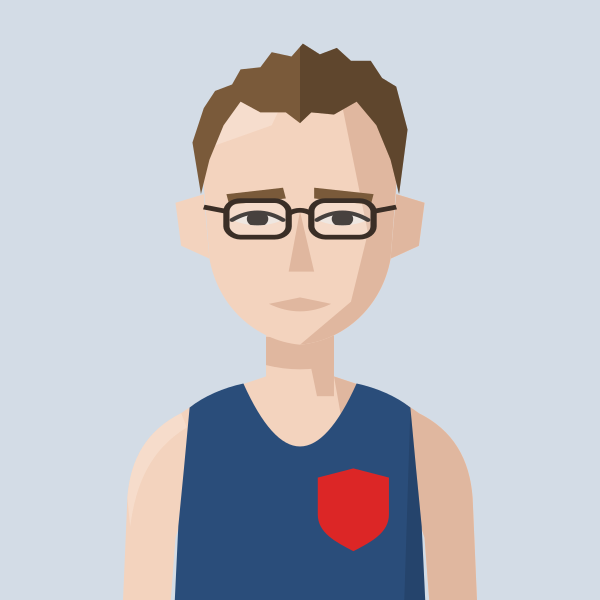
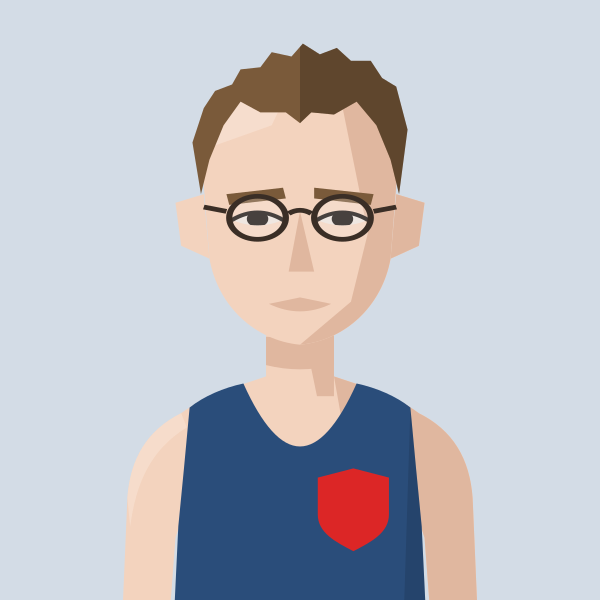
Max Nicholls portrait; round glasses option for Nick Acfield
Claude-Session: https://claude.ai/code/session_01MgmDWhFqnSSnP4iBLKXUZC

Changed region(s): [[0.36, 0.3, 0.63, 0.42]]

diff --git a/files/index.html b/files/index.html
@@ -578,12 +578,12 @@ const LoadingVests=()=>{
 const PORTRAIT_CLUBS=new Set(['BEL','KEN','THH','HHH','H/W','SLH','G&G','RAN','C/C','DUL','HOL','WAL','CRO','WOK','E&E','FUL','SOC','BOX','BOH','AFD','SUR','MIT','REI','DMV','STR','W4H','W/W','K&P','S&D','SEL','DWN','FOT','LCR','ADV','262','MPA','BAC','OME','VAC','HER']);
 // Superstar portraits: every spelling of the athlete's name used in the data -> file in portraits/athletes/
 const PORTRAITS=(()=>{const m={};const add=(file,club,...names)=>names.forEach(n=>{const k=n.toLowerCase();if(m[k]&&m[k].club!==club)m[k+'@'+club]={file,club};else m[k]={file,club};});
-add('kitty-shepherd-cross','BEL','Kitty Shepherd-Cross','Kitty Shepherd Cross');add('jack-kavanagh','HOL','Jack Kavanagh');add('sam-bramwell','HHH','Sam Bramwell');add('suzie-harvey','G&G','Suzie Harvey');add('freddie-hessian','H/W','Freddie Hessian');add('jamie-crowe','H/W','Jamie Crowe');add('sam-gebreselassie','BEL','Samuel Gebreselassie','Sam Gebreselassie');add('jack-brotchie','HHH','Jack Brotchie');add('jack-millar','THH','Jack Millar');add('lucy-jones','HHH','Lucy Jones');add('alex-milne','H/W','Alex Milne');add('josh-trigwell','BEL','Josh Trigwell');add('mack-downie','BEL','Mack Downey','Mack Downie');add('george-ogden','SLH','George Ogden');add('stuart-mccallum','H/W','Stuart McCallum');add('andrew-penney','H/W','Andrew Penney');add('jeremy-dempsey','THH','Jeremy Dempsey');add('henry-hart','BEL','Henry Hart');add('john-sanderson','G&G','John Sanderson');add('andy-fyfe','BEL','Andrew Fyfe','Andy Fyfe');add('saron-haileselase','BEL','Saron Haileselase');add('paskar-owor','BEL','Paskar Owor');add('ruby-carter','H/W','Ruby Carter');add('tom-foster','G&G','Tom Foster');add('mark-tennyson','G&G','Mark Tennyson');add('richard-ollington','THH','Richard Ollington');add('james-preston','BEL','James Preston');add('daniel-wolff','BEL','Daniel Wolff');add('jonny-scott','BEL','Jonathan Scott','Jonny Scott');add('josh-mitchell','BEL','Josh Mitchell');add('dylan-evans','BEL','Dylan Evans');add('morgan-roberts','HHH','Morgan Roberts');add('fred-slemeck','H/W','Fred Slemeck','Frederick Slemeck');add('matthew-edgar','BEL','Matthew Edgar');add('sam-sommerville','BEL','Sam Sommerville');add('richard-mcdowell','H/W','Richard McDowell');add('margaret-coogan','HHH','Margaret Coogan');add('owen-hind','KEN','Owen Hind','Owen Hinds');add('indy-barnes','THH','Indy Barnes');add('conall-mcnally','BEL','Conall McNally');add('rowan-board','HHH','Rowan Board');add('andy-weir','THH','Andy Weir','Andrew Weir');add('neil-chisholm','THH','Neil Chisholm','Neal Chisholm');add('pancho-panchev','H/W','Pancho Panchev');add('adrien-royer','G&G','Adrien Royer');add('rob-kelly','BEL','Robert Kelly','Rob Kelly');add('alex-janiaud','BEL','Alex Janiaud');add('tom-renshaw','THH','Thomas Renshaw','Tom Renshaw');add('jack-ramm','DUL','Jack Ramm');add('findlay-dyer','BEL','Findlay Dyer');add('james-blackwood','DUL','James Blackwood');add('sonny-nicoll','H/W','Sonny Nicoll');add('anisse-ismaili','THH','Anisse Ismaili');add('caleb-hathaway','HHH','Caleb Hathaway');add('barnaby-day','KEN','Barnaby Day');add('simon-coppard','BEL','Simon Coppard');add('ronan-tanguy','HHH','Ronan Tanguy');add('chris-threadgold','BEL','Chris Threadgold');add('mathew-speed','KEN','Mathew Speed','Matthew Speed');add('john-lethbridge','THH','John Lethbridge');add('oliver-fox','THH','Oliver Fox');add('jack-woods','HOL','Jack Woods');add('larry-ryan','BEL','Larry Ryan');add('ethan-mccolgan','THH','Ethan McColgan');add('jonathan-collier','KEN','Jonathan Collier');add('andrew-green','HOL','Andrew Green','Andy Green');add('fintan-pearce','BEL','Fintan Pearce');add('daniel-shaw','HHH','Daniel Shaw');add('sam-tyas','BEL','Sam Tyas');add('tom-austin','HHH','Tom Austin');add('ian-ellwood','KEN','Ian Ellwood');add('rian-mccawley','BEL','Rian McCawley');add('kieran-barnes','HOL','Kieran Barnes');add('ed-mallett','H/W','Ed Mallett','Edward Mallett');add('john-hutchins','WOK','John Hutchins');add('george-gathercole','THH','George Gathercole');add('nick-lightfoot','G&G','Nick Lightfoot');add('eoin-brady','H/W','Eoin Brady');add('james-stockings','H/W','James Stockings');add('jack-hobden','H/W','Jack Hobden');add('hugo-hewitt','HOL','Hugo Hewitt');add('zach-nolan','BEL','Zach Nolan');add('isaac-lutaya','H/W','Isaac Lutaya');add('oliver-young','BEL','Oliver Young');add('ben-racle','KEN','Ben Racle');add('josh-snow','BEL','Josh Snow');add('oliver-reynolds','BEL','Oliver Reynolds');add('aaron-wilson','DUL','Aaron Wilson');add('liam-burthem','HHH','Liam Burthem');add('dan-pettitt','KEN','Dan Pettitt');add('bob-holt','H/W','Bob Holt');add('dave-holt','H/W','Dave Holt');add('mike-fuller','H/W','Mike Fuller');add('gerry-north','BEL','Gerry North');add('steve-gardner','BEL','Steve Gardner');add('alex-yee','KEN','Alex Yee');add('phil-wicks','BEL','Phil Wicks');add('john-gilbert','KEN','John Gilbert','Jonathan Gilbert');add('chris-busaileh','KEN','Chris Busaileh');add('jim-allchin','KEN','Jim Allchin');add('finn-johnson','H/W','Finn Johnson');add('will-cockerell','BEL','William Cockerell','Will Cockerell');add('nick-goolab','BEL','Nick Goolab');add('arne-dumez','BEL','Arne Dumez');add('geoff-jerwood','HHH','Geoff Jerwood','G Jerwood');add('alex-lee','HHH','Alex Lee');add('benedict-whitby','HHH','Benedict Whitby');add('falilou-kebe','BEL','Falilou Kebe');add('jack-dickson','H/W','Jack Dickson');add('phil-swinburn','HOL','Phil Swinburn');add('rob-armstrong','DUL','Rob Armstrong');add('ashley-goncalves','HHH','Ashley Goncalves');add('eddie-jodrell','BEL','Eddie Jodrell');add('thomas-gandee','BEL','Thomas Gandee');add('max-milarvie','DUL','Max Milarvie');add('alex-lennon','BEL','Alex Lennon');add('james-hoad','THH','James Hoad');add('william-gardner','BEL','William Gardner');add('paddy-roddy','THH','Paddy Roddy','PADDY RoDDY');add('simon-waterhouse','BEL','Simon Waterhouse');add('conall-whelan','BEL','Conall Whelan');add('simon-williams','BEL','Simon Williams');add('christian-lee','HOL','Christian Lee');add('sean-cordon','DUL','Sean Cordon','sean cordon');add('michael-mccarthy','BEL','Michael McCarthy','Michael Mccarthy');add('jeff-cunningham','HHH','Jeff Cunningham');add('sam-peters','H/W','Sam Peters');add('ryan-hickey','HHH','Ryan Hickey');add('ben-scott','BEL','Ben Scott');add('tom-gifford','BEL','Tom Gifford');add('valentin-rigori','BEL','Valentin Rigori');add('david-grima','H/W','David Grima');add('deron-fagan','HHH','Deron Fagan');add('lee-lintern','G&G','Lee Lintern');add('ian-acreman','G&G','Ian Acreman');add('alex-howard','THH','Alex Howard');add('james-hancock','BEL','James Hancock');add('nick-morris','BEL','Nick Morris');add('richard-sun','H/W','Richard Sun');add('jonathan-cocker','G&G','Jonathan Cocker');add('isobel-hodder','BEL','Isobel Hodder');add('emma-howsham','G&G','Emma Howsham');add('eilidh-hide','BEL','Eilidh Hide');add('karen-xiang','BEL','Karen Xiang');add('claire-grima','H/W','Claire Grima');add('emma-gordon','BEL','Emma Gordon');add('emily-lowery','BEL','Emily Lowery');add('felicity-harrison','BEL','Felicity Harrison');add('alice-martin','HOL','Alice Martin');add('juliet-hodder','BEL','Juliet Hodder');add('abbie-bulbulian','C/C','Abbie Bulbulian');add('lara-mangan','BEL','Lara Mangan');add('clare-elms','KEN','Clare Elms');add('james-nutt','HHH','James Nutt');add('colin-high','G&G','Colin High');add('gavin-eccles','BEL','Gavin Eccles');add('nicholas-torry','KEN','Nicholas Torry');add('samuel-dames','KEN','Samuel Dames');add('tom-lole','BEL','Tom Lole');add('will-marshall','BEL','Will Marshall');add('stephen-mcleod','HHH','Stephen McLeod');add('rory-orsborn','HHH','Rory Orsborn');add('thomas-dugre','BEL','Thomas Dugre');add('arthur-peel','BEL','Arthur Peel');add('angus-lamb','BEL','Angus Lamb');add('andrew-warburton','HHH','Andrew Warburton');add('robert-laing','KEN','Robert Laing');add('toby-cooke','H/W','Toby Cooke');add('harrison-hayman','SLH','Harrison Hayman');add('edward-chuck','DUL','Edward Chuck');add('robert-sesemann','KEN','Robert Sesemann');add('eoin-molloy','BEL','Eoin Molloy');add('ollie-garrod','BEL','Ollie Garrod');add('matthew-houchell','G&G','Matthew Houchell');add('ben-clarke','KEN','Ben Clarke');add('benjamin-hilson','HOL','Benjamin Hilson');add('molly-oconnor','KEN',"Molly O'Connor");add('iona-cousland','KEN','Iona Cousland');add('anika-schwarze-chintapatla','THH','Anika Schwarze-Chintapatla');add('suzy-whatmough','RAN','Suzy Whatmough');add('kristina-popadich','BEL','Kristina Popadich');add('dillan-quinn','H/W','Dillan Quinn');add('sarah-riceman','BEL','Sarah Riceman');add('holly-pan','BEL','Holly Pan');add('jermaine-mays','SLH','Jermaine Mays');add('gary-staines','BEL','Gary Staines');add('charlie-wyllie','H/W','Charlie Wyllie');add('george-cotton','WOK','George Cotton');add('cameron-reilly','G&G','Cameron Reilly');add('jack-dormer','WOK','Jack Dormer');add('lea-adamson','BEL','Lea Adamson');add('max-heyden','BEL','Max Heyden');add('ian-crowe-wright','BEL','Ian Crowe-Wright');add('neil-wilson','BEL','Neil Wilson');add('lloyd-kempson','BEL','Lloyd Kempson');add('andy-coley-maud','G&G','Andy Coley-Maud');add('dan-cliffe','H/W','Dan Cliffe');add('patrick-mcdougall','BEL','Patrick McDougall','Patrick Mcdougall');add('callum-stewart','BEL','Callum Stewart');add('jamie-parkinson','THH','Jamie Parkinson');add('phil-sesemann','KEN','Phil Sesemann');add('andy-coley-maud-cc','C/C','Andy Coley-Maud');add('ralph-street','RAN','Ralph Street');add('jon-pepper','RAN','Jon Pepper');add('kevin-quinn','SLH','Kevin Quinn');add('frank-tickner','KEN','Frank Tickner');add('paul-pollock','KEN','Paul Pollock');add('chris-busaileh-hhh','HHH','Chris Busaileh','Chris Busileah');add('james-mcmullan','THH','James McMullan');add('ben-hurley','BEL','Ben Hurley');add('alice-crane','DMV','Alice Crane');add('martina-conner','BEL','Martina Conner');add('georgie-grgec','HHH','Georgie Grgec');add('katie-snowden','HHH','Katie Snowden');add('kate-axford','BEL','Kate Axford');add('sarah-astin','BEL','Sarah Astin');add('georgie-bruinvels','SLH','Georgie Bruinvels','G Bruinvels','Georgia Bruinvels');add('samantha-munday','BEL','Samantha Munday','Sanantha Munday');add('holly-nixon','BEL','Holly Nixon');add('sophie-harris','BEL','Sophie Harris');add('isabel-brinsden','E&E','Isabel Brinsden');add('mimi-corden-lloyd','BEL','Mimi Corden-Lloyd');add('steph-hewitt','BEL','Stephanie Hewitt','Steph Hewitt');add('jared-martin','THH','Jared Martin');add('david-bowers','BEL','David Bowers','Dave Bowers');add('stuart-major','SLH','Stuart Major');add('stuart-major-thh','THH','Stuart Major');add('bernie-ford','AFD','Bernie Ford','B Ford');add('dave-taylor','HHH','Dave Taylor');add('nick-acfield','KEN','Nick Acfield');add('olly-buck','KEN','Olly Buck');add('dame-dibaba','KEN','Dame Dibaba');add('chris-greenwood','KEN','Chris Greenwood','Christopher Greenwood');add('chris-keavey','BEL','Chris Keavey','C Keavey');add('john-moore','BEL','John Moore');add('john-bromley','BEL','John Bromley');add('don-maclean','BEL','Don Maclean','Don McLean','D Maclean');add('david-north','BEL','Dave North','David North','D North');add('mark-waller','BEL','Mark Waller','M Waller');add('john-gladwin','BEL','John Gladwin','J Gladwin');add('alan-black','BEL','Alan Black');add('james-kelly','BEL','James Kelly');add('russell-dessaix-chin','BEL','Russell Dessaix-Chin');add('malachi-byansi','BEL','Malachi Byansi','Mal Byansi','M Byansi','Martin Byansi','Moses Byansi');add('chris-moss','BEL','Chris Moss');add('richard-ward','BEL','Richard Ward');add('david-anderson','BEL','David Anderson');add('spencer-barden','BEL','Spencer Barden');add('jonathon-blackledge','BEL','Jonathon Blackledge','J Blackledge');add('peter-clarke','H/W','Peter Clarke','P Clarke','Pete Clarke');add('mark-sinclair','BEL','Mark Sinclair','M Sinclair');add('jean-paul-wright','BEL','Jean Paul Wright','J Wright');add('mike-hayes','BEL','Mike Hayes','M Hayes');add('marcello-bizio','BEL','Marcello Bizio','M Bizio');add('ollie-foote','BEL','Oliver Foote','Ollie Foote','O Foote');add('tim-watson','BEL','Tim Watson','T Watson');add('mark-miles','BEL','Mark Miles','M Miles');add('kevin-nash','BEL','Kevin Nash','K Nash');add('paul-freary','BEL','Paul Freary','P Freary');add('stephen-sharp','BEL','Steve Sharp','Stephen Sharp');add('kassa-tadesse','BEL','Kassa Tadesse','K Tadesse');add('mike-farmery','THH','Mike Farmery','M Farmery','N Farmery');add('tom-south','DUL','Tom South','Thomas South');add('peter-giles','H/W','Peter Giles');add('peter-giles-thh','THH','Peter Giles');add('simon-coombes','HHH','Simon Coombes','S Coombes');add('david-ogden','SLH','David Ogden','Dave Ogden','D Ogden');add('robert-elphick','KEN','Robert Elphick');add('tony-harran','HHH','Tony Harran','Anthony Harran','A Harran','T Harran');add('ben-reynolds','THH','Ben Reynolds','B Reynolds');add('tom-jervis','H/W','Tom Jervis');add('nick-torry','KEN','Nick Torry','Nicholas Torry');add('john-bicourt','BEL','John Bicourt','J Bicourt');add('ruby-whyte-wilding','BEL','Ruby Whyte-Wilding');add('sophie-tooley','HHH','Sophie Tooley');add('catherine-kandie','KEN','Catherine Kandie');add('olivia-stillman','HHH','Olivia Stillman');add('alex-gandee','BEL','Alex Gandee');add('billie-mcclosky','BEL','Billie McClosky');add('lisa-bailey','STR','Lisa Bailey');add('amy-clements','KEN','Amy Clements');add('bethanie-murray','THH','Bethanie Murray');add('evie-warren','G&G','Evie Warren');add('lucy-peters','BEL','Lucy Peters');add('emma-lord','H/W','Emma Lord');add('alice-bridger-morales','HHH','Alice Bridger Morales');add('emily-bradley','BEL','Emily Bradley');add('isabelle-pickett','G&G','Isabelle Pickett');add('felicity-hayward','THH','Felicity Hayward');add('gabriel-reynolds','HHH','Gabriel Reynolds');add('lara-bromilow','KEN','Lara Bromilow');add('megan-gildea','HHH','Megan Gildea');add('maeve-kenny','SLH','Maeve Kenny');add('emilie-arnoux','BEL','Emilie Arnoux');add('katie-good','KEN','Katie Good');add('ellie-freeden','KEN','Ellie Freeden');add('alice-smith','SLH','Alice Smith');add('florence-wiggins','THH','Florence Wiggins');add('alexandra-barbour','BEL','Alex Barbour','Alexandra Barbour');add('ella-king-powrie','BEL','Ella King Powrie');add('betsy-griffiths','RAN','Betsy Griffiths');add('nicola-douglas','STR','Nicola Douglas');add('georgie-furze','WOK','Georgie Furze');add('emma-rowland','BEL','Emma Rowland');add('charlotte-griffiths','BEL','Charlotte Griffiths');add('mary-james','SLH','Mary James');add('penny-oliver','BEL','Penny Oliver');add('ava-mcandie','H/W','Ava McAndie');add('bethan-goddard','BEL','Bethan Goddard');add('nikki-sturzaker','HHH','Nikki Sturzaker');add('hannah-english','HHH','Hannah English');add('clara-pettit','H/W','Clara Pettit');
+add('kitty-shepherd-cross','BEL','Kitty Shepherd-Cross','Kitty Shepherd Cross');add('jack-kavanagh','HOL','Jack Kavanagh');add('sam-bramwell','HHH','Sam Bramwell');add('suzie-harvey','G&G','Suzie Harvey');add('freddie-hessian','H/W','Freddie Hessian');add('jamie-crowe','H/W','Jamie Crowe');add('sam-gebreselassie','BEL','Samuel Gebreselassie','Sam Gebreselassie');add('jack-brotchie','HHH','Jack Brotchie');add('jack-millar','THH','Jack Millar');add('lucy-jones','HHH','Lucy Jones');add('alex-milne','H/W','Alex Milne');add('josh-trigwell','BEL','Josh Trigwell');add('mack-downie','BEL','Mack Downey','Mack Downie');add('george-ogden','SLH','George Ogden');add('stuart-mccallum','H/W','Stuart McCallum');add('andrew-penney','H/W','Andrew Penney');add('jeremy-dempsey','THH','Jeremy Dempsey');add('henry-hart','BEL','Henry Hart');add('john-sanderson','G&G','John Sanderson');add('andy-fyfe','BEL','Andrew Fyfe','Andy Fyfe');add('saron-haileselase','BEL','Saron Haileselase');add('paskar-owor','BEL','Paskar Owor');add('ruby-carter','H/W','Ruby Carter');add('tom-foster','G&G','Tom Foster');add('mark-tennyson','G&G','Mark Tennyson');add('richard-ollington','THH','Richard Ollington');add('james-preston','BEL','James Preston');add('daniel-wolff','BEL','Daniel Wolff');add('jonny-scott','BEL','Jonathan Scott','Jonny Scott');add('josh-mitchell','BEL','Josh Mitchell');add('dylan-evans','BEL','Dylan Evans');add('morgan-roberts','HHH','Morgan Roberts');add('fred-slemeck','H/W','Fred Slemeck','Frederick Slemeck');add('matthew-edgar','BEL','Matthew Edgar');add('sam-sommerville','BEL','Sam Sommerville');add('richard-mcdowell','H/W','Richard McDowell');add('margaret-coogan','HHH','Margaret Coogan');add('owen-hind','KEN','Owen Hind','Owen Hinds');add('indy-barnes','THH','Indy Barnes');add('conall-mcnally','BEL','Conall McNally');add('rowan-board','HHH','Rowan Board');add('andy-weir','THH','Andy Weir','Andrew Weir');add('neil-chisholm','THH','Neil Chisholm','Neal Chisholm');add('pancho-panchev','H/W','Pancho Panchev');add('adrien-royer','G&G','Adrien Royer');add('rob-kelly','BEL','Robert Kelly','Rob Kelly');add('alex-janiaud','BEL','Alex Janiaud');add('tom-renshaw','THH','Thomas Renshaw','Tom Renshaw');add('jack-ramm','DUL','Jack Ramm');add('findlay-dyer','BEL','Findlay Dyer');add('james-blackwood','DUL','James Blackwood');add('sonny-nicoll','H/W','Sonny Nicoll');add('anisse-ismaili','THH','Anisse Ismaili');add('caleb-hathaway','HHH','Caleb Hathaway');add('barnaby-day','KEN','Barnaby Day');add('simon-coppard','BEL','Simon Coppard');add('ronan-tanguy','HHH','Ronan Tanguy');add('chris-threadgold','BEL','Chris Threadgold');add('mathew-speed','KEN','Mathew Speed','Matthew Speed');add('john-lethbridge','THH','John Lethbridge');add('oliver-fox','THH','Oliver Fox');add('jack-woods','HOL','Jack Woods');add('larry-ryan','BEL','Larry Ryan');add('ethan-mccolgan','THH','Ethan McColgan');add('jonathan-collier','KEN','Jonathan Collier');add('andrew-green','HOL','Andrew Green','Andy Green');add('fintan-pearce','BEL','Fintan Pearce');add('daniel-shaw','HHH','Daniel Shaw');add('sam-tyas','BEL','Sam Tyas');add('tom-austin','HHH','Tom Austin');add('ian-ellwood','KEN','Ian Ellwood');add('rian-mccawley','BEL','Rian McCawley');add('kieran-barnes','HOL','Kieran Barnes');add('ed-mallett','H/W','Ed Mallett','Edward Mallett');add('john-hutchins','WOK','John Hutchins');add('george-gathercole','THH','George Gathercole');add('nick-lightfoot','G&G','Nick Lightfoot');add('eoin-brady','H/W','Eoin Brady');add('james-stockings','H/W','James Stockings');add('jack-hobden','H/W','Jack Hobden');add('hugo-hewitt','HOL','Hugo Hewitt');add('zach-nolan','BEL','Zach Nolan');add('isaac-lutaya','H/W','Isaac Lutaya');add('oliver-young','BEL','Oliver Young');add('ben-racle','KEN','Ben Racle');add('josh-snow','BEL','Josh Snow');add('oliver-reynolds','BEL','Oliver Reynolds');add('aaron-wilson','DUL','Aaron Wilson');add('liam-burthem','HHH','Liam Burthem');add('dan-pettitt','KEN','Dan Pettitt');add('bob-holt','H/W','Bob Holt');add('dave-holt','H/W','Dave Holt');add('mike-fuller','H/W','Mike Fuller');add('gerry-north','BEL','Gerry North');add('steve-gardner','BEL','Steve Gardner');add('alex-yee','KEN','Alex Yee');add('phil-wicks','BEL','Phil Wicks');add('john-gilbert','KEN','John Gilbert','Jonathan Gilbert');add('chris-busaileh','KEN','Chris Busaileh');add('jim-allchin','KEN','Jim Allchin');add('finn-johnson','H/W','Finn Johnson');add('will-cockerell','BEL','William Cockerell','Will Cockerell');add('nick-goolab','BEL','Nick Goolab');add('arne-dumez','BEL','Arne Dumez');add('geoff-jerwood','HHH','Geoff Jerwood','G Jerwood');add('alex-lee','HHH','Alex Lee');add('benedict-whitby','HHH','Benedict Whitby');add('falilou-kebe','BEL','Falilou Kebe');add('jack-dickson','H/W','Jack Dickson');add('phil-swinburn','HOL','Phil Swinburn');add('rob-armstrong','DUL','Rob Armstrong');add('ashley-goncalves','HHH','Ashley Goncalves');add('eddie-jodrell','BEL','Eddie Jodrell');add('thomas-gandee','BEL','Thomas Gandee');add('max-milarvie','DUL','Max Milarvie');add('alex-lennon','BEL','Alex Lennon');add('james-hoad','THH','James Hoad');add('william-gardner','BEL','William Gardner');add('paddy-roddy','THH','Paddy Roddy','PADDY RoDDY');add('simon-waterhouse','BEL','Simon Waterhouse');add('conall-whelan','BEL','Conall Whelan');add('simon-williams','BEL','Simon Williams');add('christian-lee','HOL','Christian Lee');add('sean-cordon','DUL','Sean Cordon','sean cordon');add('michael-mccarthy','BEL','Michael McCarthy','Michael Mccarthy');add('jeff-cunningham','HHH','Jeff Cunningham');add('sam-peters','H/W','Sam Peters');add('ryan-hickey','HHH','Ryan Hickey');add('ben-scott','BEL','Ben Scott');add('tom-gifford','BEL','Tom Gifford');add('valentin-rigori','BEL','Valentin Rigori');add('david-grima','H/W','David Grima');add('deron-fagan','HHH','Deron Fagan');add('lee-lintern','G&G','Lee Lintern');add('ian-acreman','G&G','Ian Acreman');add('alex-howard','THH','Alex Howard');add('james-hancock','BEL','James Hancock');add('nick-morris','BEL','Nick Morris');add('richard-sun','H/W','Richard Sun');add('jonathan-cocker','G&G','Jonathan Cocker');add('isobel-hodder','BEL','Isobel Hodder');add('emma-howsham','G&G','Emma Howsham');add('eilidh-hide','BEL','Eilidh Hide');add('karen-xiang','BEL','Karen Xiang');add('claire-grima','H/W','Claire Grima');add('emma-gordon','BEL','Emma Gordon');add('emily-lowery','BEL','Emily Lowery');add('felicity-harrison','BEL','Felicity Harrison');add('alice-martin','HOL','Alice Martin');add('juliet-hodder','BEL','Juliet Hodder');add('abbie-bulbulian','C/C','Abbie Bulbulian');add('lara-mangan','BEL','Lara Mangan');add('clare-elms','KEN','Clare Elms');add('james-nutt','HHH','James Nutt');add('colin-high','G&G','Colin High');add('gavin-eccles','BEL','Gavin Eccles');add('nicholas-torry','KEN','Nicholas Torry');add('samuel-dames','KEN','Samuel Dames');add('tom-lole','BEL','Tom Lole');add('will-marshall','BEL','Will Marshall');add('stephen-mcleod','HHH','Stephen McLeod');add('rory-orsborn','HHH','Rory Orsborn');add('thomas-dugre','BEL','Thomas Dugre');add('arthur-peel','BEL','Arthur Peel');add('angus-lamb','BEL','Angus Lamb');add('andrew-warburton','HHH','Andrew Warburton');add('robert-laing','KEN','Robert Laing');add('toby-cooke','H/W','Toby Cooke');add('harrison-hayman','SLH','Harrison Hayman');add('edward-chuck','DUL','Edward Chuck');add('robert-sesemann','KEN','Robert Sesemann');add('eoin-molloy','BEL','Eoin Molloy');add('ollie-garrod','BEL','Ollie Garrod');add('matthew-houchell','G&G','Matthew Houchell');add('ben-clarke','KEN','Ben Clarke');add('benjamin-hilson','HOL','Benjamin Hilson');add('molly-oconnor','KEN',"Molly O'Connor");add('iona-cousland','KEN','Iona Cousland');add('anika-schwarze-chintapatla','THH','Anika Schwarze-Chintapatla');add('suzy-whatmough','RAN','Suzy Whatmough');add('kristina-popadich','BEL','Kristina Popadich');add('dillan-quinn','H/W','Dillan Quinn');add('sarah-riceman','BEL','Sarah Riceman');add('holly-pan','BEL','Holly Pan');add('jermaine-mays','SLH','Jermaine Mays');add('gary-staines','BEL','Gary Staines');add('charlie-wyllie','H/W','Charlie Wyllie');add('george-cotton','WOK','George Cotton');add('cameron-reilly','G&G','Cameron Reilly');add('jack-dormer','WOK','Jack Dormer');add('lea-adamson','BEL','Lea Adamson');add('max-heyden','BEL','Max Heyden');add('ian-crowe-wright','BEL','Ian Crowe-Wright');add('neil-wilson','BEL','Neil Wilson');add('lloyd-kempson','BEL','Lloyd Kempson');add('andy-coley-maud','G&G','Andy Coley-Maud');add('dan-cliffe','H/W','Dan Cliffe');add('patrick-mcdougall','BEL','Patrick McDougall','Patrick Mcdougall');add('callum-stewart','BEL','Callum Stewart');add('jamie-parkinson','THH','Jamie Parkinson');add('phil-sesemann','KEN','Phil Sesemann');add('andy-coley-maud-cc','C/C','Andy Coley-Maud');add('ralph-street','RAN','Ralph Street');add('jon-pepper','RAN','Jon Pepper');add('kevin-quinn','SLH','Kevin Quinn');add('frank-tickner','KEN','Frank Tickner');add('paul-pollock','KEN','Paul Pollock');add('chris-busaileh-hhh','HHH','Chris Busaileh','Chris Busileah');add('james-mcmullan','THH','James McMullan');add('ben-hurley','BEL','Ben Hurley');add('alice-crane','DMV','Alice Crane');add('martina-conner','BEL','Martina Conner');add('georgie-grgec','HHH','Georgie Grgec');add('katie-snowden','HHH','Katie Snowden');add('kate-axford','BEL','Kate Axford');add('sarah-astin','BEL','Sarah Astin');add('georgie-bruinvels','SLH','Georgie Bruinvels','G Bruinvels','Georgia Bruinvels');add('samantha-munday','BEL','Samantha Munday','Sanantha Munday');add('holly-nixon','BEL','Holly Nixon');add('sophie-harris','BEL','Sophie Harris');add('isabel-brinsden','E&E','Isabel Brinsden');add('mimi-corden-lloyd','BEL','Mimi Corden-Lloyd');add('steph-hewitt','BEL','Stephanie Hewitt','Steph Hewitt');add('jared-martin','THH','Jared Martin');add('david-bowers','BEL','David Bowers','Dave Bowers');add('stuart-major','SLH','Stuart Major');add('stuart-major-thh','THH','Stuart Major');add('bernie-ford','AFD','Bernie Ford','B Ford');add('dave-taylor','HHH','Dave Taylor');add('max-nicholls','KEN','Max Nicholls');add('nick-acfield','KEN','Nick Acfield');add('olly-buck','KEN','Olly Buck');add('dame-dibaba','KEN','Dame Dibaba');add('chris-greenwood','KEN','Chris Greenwood','Christopher Greenwood');add('chris-keavey','BEL','Chris Keavey','C Keavey');add('john-moore','BEL','John Moore');add('john-bromley','BEL','John Bromley');add('don-maclean','BEL','Don Maclean','Don McLean','D Maclean');add('david-north','BEL','Dave North','David North','D North');add('mark-waller','BEL','Mark Waller','M Waller');add('john-gladwin','BEL','John Gladwin','J Gladwin');add('alan-black','BEL','Alan Black');add('james-kelly','BEL','James Kelly');add('russell-dessaix-chin','BEL','Russell Dessaix-Chin');add('malachi-byansi','BEL','Malachi Byansi','Mal Byansi','M Byansi','Martin Byansi','Moses Byansi');add('chris-moss','BEL','Chris Moss');add('richard-ward','BEL','Richard Ward');add('david-anderson','BEL','David Anderson');add('spencer-barden','BEL','Spencer Barden');add('jonathon-blackledge','BEL','Jonathon Blackledge','J Blackledge');add('peter-clarke','H/W','Peter Clarke','P Clarke','Pete Clarke');add('mark-sinclair','BEL','Mark Sinclair','M Sinclair');add('jean-paul-wright','BEL','Jean Paul Wright','J Wright');add('mike-hayes','BEL','Mike Hayes','M Hayes');add('marcello-bizio','BEL','Marcello Bizio','M Bizio');add('ollie-foote','BEL','Oliver Foote','Ollie Foote','O Foote');add('tim-watson','BEL','Tim Watson','T Watson');add('mark-miles','BEL','Mark Miles','M Miles');add('kevin-nash','BEL','Kevin Nash','K Nash');add('paul-freary','BEL','Paul Freary','P Freary');add('stephen-sharp','BEL','Steve Sharp','Stephen Sharp');add('kassa-tadesse','BEL','Kassa Tadesse','K Tadesse');add('mike-farmery','THH','Mike Farmery','M Farmery','N Farmery');add('tom-south','DUL','Tom South','Thomas South');add('peter-giles','H/W','Peter Giles');add('peter-giles-thh','THH','Peter Giles');add('simon-coombes','HHH','Simon Coombes','S Coombes');add('david-ogden','SLH','David Ogden','Dave Ogden','D Ogden');add('robert-elphick','KEN','Robert Elphick');add('tony-harran','HHH','Tony Harran','Anthony Harran','A Harran','T Harran');add('ben-reynolds','THH','Ben Reynolds','B Reynolds');add('tom-jervis','H/W','Tom Jervis');add('nick-torry','KEN','Nick Torry','Nicholas Torry');add('john-bicourt','BEL','John Bicourt','J Bicourt');add('ruby-whyte-wilding','BEL','Ruby Whyte-Wilding');add('sophie-tooley','HHH','Sophie Tooley');add('catherine-kandie','KEN','Catherine Kandie');add('olivia-stillman','HHH','Olivia Stillman');add('alex-gandee','BEL','Alex Gandee');add('billie-mcclosky','BEL','Billie McClosky');add('lisa-bailey','STR','Lisa Bailey');add('amy-clements','KEN','Amy Clements');add('bethanie-murray','THH','Bethanie Murray');add('evie-warren','G&G','Evie Warren');add('lucy-peters','BEL','Lucy Peters');add('emma-lord','H/W','Emma Lord');add('alice-bridger-morales','HHH','Alice Bridger Morales');add('emily-bradley','BEL','Emily Bradley');add('isabelle-pickett','G&G','Isabelle Pickett');add('felicity-hayward','THH','Felicity Hayward');add('gabriel-reynolds','HHH','Gabriel Reynolds');add('lara-bromilow','KEN','Lara Bromilow');add('megan-gildea','HHH','Megan Gildea');add('maeve-kenny','SLH','Maeve Kenny');add('emilie-arnoux','BEL','Emilie Arnoux');add('katie-good','KEN','Katie Good');add('ellie-freeden','KEN','Ellie Freeden');add('alice-smith','SLH','Alice Smith');add('florence-wiggins','THH','Florence Wiggins');add('alexandra-barbour','BEL','Alex Barbour','Alexandra Barbour');add('ella-king-powrie','BEL','Ella King Powrie');add('betsy-griffiths','RAN','Betsy Griffiths');add('nicola-douglas','STR','Nicola Douglas');add('georgie-furze','WOK','Georgie Furze');add('emma-rowland','BEL','Emma Rowland');add('charlotte-griffiths','BEL','Charlotte Griffiths');add('mary-james','SLH','Mary James');add('penny-oliver','BEL','Penny Oliver');add('ava-mcandie','H/W','Ava McAndie');add('bethan-goddard','BEL','Bethan Goddard');add('nikki-sturzaker','HHH','Nikki Sturzaker');add('hannah-english','HHH','Hannah English');add('clara-pettit','H/W','Clara Pettit');
 return m;})();
 const portraitFile=(name,club)=>{const k=normalizeNameForCompare(name||'').replace(/\s*\(([^)]*)\)$/,(m,c)=>CLUBS[c.toUpperCase()]?'':m);const a=PORTRAITS[k];if(a&&a.club===club)return a.file;const b=PORTRAITS[k+'@'+club];return b?b.file:null;};
 // Athlete header figure: superstar portrait if we have one, else a grey runner in the club vest, else the plain vest icon
 // Changes whenever any portrait changes (set by tools/build_og.py), so browsers fetch fresh images instead of old cached ones
-const PORTRAIT_V='2c63e127';
+const PORTRAIT_V='6a6114be';
 const AthletePortrait=({name,club,w,fill,onClick})=>{const[failed,setFailed]=useState(false);const file=portraitFile(name,club);const src=file?`/portraits/athletes/${file}.svg?v=${PORTRAIT_V}`:PORTRAIT_CLUBS.has(club)?`/portraits/clubs/${club.replace(/\//g,'').replace(/&/g,'and')}.svg?v=${PORTRAIT_V}`:null;if(!src||failed)return<div onClick={onClick} className={onClick?'cursor-pointer':''}><ClubShield club={club} size={w}/></div>;const h=Math.round(w*148/126),ih=Math.round(w*1.4);if(fill)return<div onClick={onClick} className="cursor-pointer" style={{alignSelf:'stretch',minHeight:h,aspectRatio:'126 / 148',flexShrink:0,position:'relative',borderRadius:4,overflow:'hidden'}}><img src={src} alt={file?`Portrait of ${name.replace(/\s*\([^)]*\)$/,'')}`:`Runner in ${CLUBS[club]?.name||club} vest`} style={{position:'absolute',top:0,left:0,display:'block',width:'100%',height:'auto'}} onError={()=>setFailed(true)}/></div>;return<div style={{width:w,height:h,borderRadius:4,overflow:'hidden',flexShrink:0}}><img src={src} alt={file?`Portrait of ${name.replace(/\s*\([^)]*\)$/,'')}`:`Runner in ${CLUBS[club]?.name||club} vest`} width={w} height={ih} style={{display:'block',width:w,height:ih}} onError={()=>setFailed(true)}/></div>;};
 const getClubVestSvg=(club)=>{
   const p="M3 0 L6 0 Q7 4 10 5 Q13 4 14 0 L17 0 L17 20 L3 20 Z";

diff --git a/tools/gen_portraits.py b/tools/gen_portraits.py
@@ -278,7 +278,8 @@ def figure(kit, mode="custom", skin=1, hair="crop", hair_colour="dark brown", fa
                 hg.append('<path d="M89,40 Q100,44 111,40 L110,44.5 Q100,48.5 90,44.5 Z" fill="#000" fill-opacity=".35"/>')
     if custom and glasses:
         gw = "2.2" if glasses_col != "#9A9DA3" else "1.6"
-        hg.append(f'<g fill="#FFFFFF" fill-opacity=".18" stroke="{glasses_col}" stroke-width="{gw}"><rect x="74" y="103" width="22" height="17" rx="5"/><rect x="104" y="103" width="22" height="17" rx="5"/></g>'
+        lens = '<circle cx="85" cy="111" r="10"/><circle cx="115" cy="111" r="10"/>' if glasses == "round" else '<rect x="74" y="103" width="22" height="17" rx="5"/><rect x="104" y="103" width="22" height="17" rx="5"/>'
+        hg.append(f'<g fill="#FFFFFF" fill-opacity=".18" stroke="{glasses_col}" stroke-width="{gw}">{lens}</g>'
                   f'<path d="M96,109 Q100,106 104,109 M74,108 L66,106 M126,108 L134,106" fill="none" stroke="{glasses_col}" stroke-width="{gw}"/>')
     if custom and shades:
         hg.append('<path d="M66,104 Q100,98 134,104 L131,121 Q118,128 104,120 L100,116 L96,120 Q82,128 69,121 Z" fill="' + (shades_col or "#2B3039") + '"/>'
@@ -773,5 +774,6 @@ save("john-bromley", figure("BEL", skin=1, hair="croprecede", hair_colour="#9A8A
 save("don-maclean", figure("BEL", skin=1, hair="shortcurls", hair_colour="#2E211B"))
 save("chris-greenwood", figure("KEN", skin=1, hair=None, facial="shortbeard", facial_colour="#4A3E36", brow_colour="#3A2E26", gaunt=True))
 save("dame-dibaba", figure("KEN", skin=4, hair="shortcurls", hair_colour="black", facial="shortbeard", facial_colour="#1C1714", gaunt=True))
-save("nick-acfield", figure("KEN", skin=1, hair="shortcurls", hair_colour="#7A5A3A", glasses=True, glasses_col="#3A2E26"))
+save("nick-acfield", figure("KEN", skin=1, hair="shortcurls", hair_colour="#7A5A3A", glasses="round", glasses_col="#3A2E26"))
 save("olly-buck", figure("KEN", skin=1, hair="messyfringe", hair_colour="#3A2A20", mud=True))
+save("max-nicholls", figure("KEN", skin=2, hair="messyvolume", hair_colour="#2E211B"))
